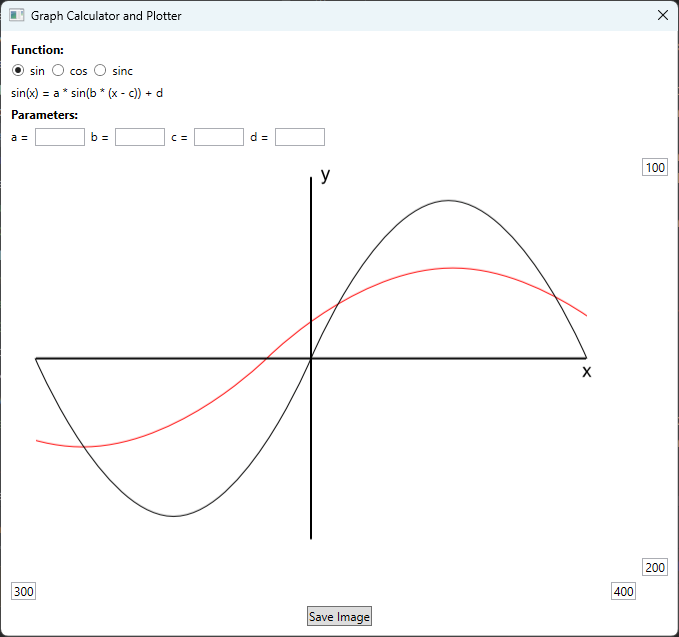
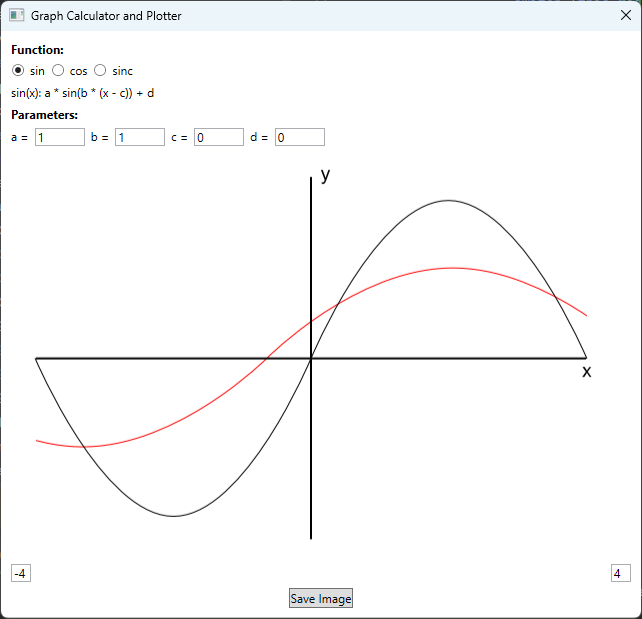
Removed MinY and MaxY

diff --git a/SimpleGraphCalculatorAndPlotter/MainWindow.xaml b/SimpleGraphCalculatorAndPlotter/MainWindow.xaml
@@ -81,8 +81,6 @@
                 <ColumnDefinition Width="Auto" />
                 <ColumnDefinition Width="*" />
                 <ColumnDefinition Width="Auto" />
-                <ColumnDefinition Width="6" />
-                <ColumnDefinition Width="Auto" />
             </Grid.ColumnDefinitions>
             <Grid.RowDefinitions>
                 <RowDefinition Height="Auto" />
@@ -98,8 +96,6 @@
                    Width="600"
                    Height="400" 
                    Source="/Analysis/Plot.png" />
-            <TextBox Grid.Row="0" Grid.Column="4" Width="20" Text="{Binding Model.MinY}" />
-            <TextBox Grid.Row="2" Grid.Column="4" Width="20" Text="{Binding Model.MaxY}" />
             <TextBox Grid.Row="4" Grid.Column="0" Width="20" Text="{Binding Model.MinX}" />
             <TextBox Grid.Row="4" Grid.Column="2" Width="20" Text="{Binding Model.MaxX}" />
         </Grid>

diff --git a/SimpleGraphCalculatorAndPlotterTests/SGCPModelTests.cs b/SimpleGraphCalculatorAndPlotterTests/SGCPModelTests.cs
@@ -20,8 +20,6 @@ namespace SimpleGraphCalculatorAndPlotterTests
                 It.IsAny<double>(),
                 It.IsAny<double>(),
                 It.IsAny<double>(),
-                It.IsAny<double>(),
-                It.IsAny<double>(),
                 It.IsAny<double>())).Returns(coordinates);
 
             var rendererMock = new Mock<ISGCPRenderer>();
@@ -48,23 +46,21 @@ namespace SimpleGraphCalculatorAndPlotterTests
                 It.IsAny<double>(),
                 It.IsAny<double>(),
                 It.IsAny<double>(),
-                It.IsAny<double>(),
-                It.IsAny<double>(),
                 It.IsAny<double>()), Times.Exactly(9));
             rendererMock.Verify(mock => mock.Render(coordinates), Times.Exactly(9));
             Assert.That(sut.Image == bitmapImage);
         }
 
         [Test]
-        [TestCase(FunctionType.Sin, 1, 2, 3, 4, 5, 6, 7, 8)]
-        [TestCase(FunctionType.Cos, -1, -2, -3, -4, -5, -6, -7, -8)]
-        [TestCase(FunctionType.Sinc, 0, 0, 0, 0, 0, 0, 0, 0)]
-        public void SaveImageCallsPlotterAndExportWithParameters(FunctionType functionType, double a, double b, double c, double d, double minX, double maxX, double minY, double maxY)
+        [TestCase(FunctionType.Sin, 1, 2, 3, 4, 5, 6)]
+        [TestCase(FunctionType.Cos, -1, -2, -3, -4, -5, -6)]
+        [TestCase(FunctionType.Sinc, 0, 0, 0, 0, 0, 0)]
+        public void SaveImageCallsPlotterAndExportWithParameters(FunctionType functionType, double a, double b, double c, double d, double minX, double maxX)
         {
             // Arrange
             var plotterMock = new Mock<ISGCPPlotter>();
             var coordinates = new[] { (1.0, 1.0), (2.0, 2.0), (3.0, 3.0) };
-            plotterMock.Setup(mock => mock.Plot(functionType, a, b, c, d, minX, maxX, minY, maxY)).Returns(coordinates);
+            plotterMock.Setup(mock => mock.Plot(functionType, a, b, c, d, minX, maxX)).Returns(coordinates);
             var exporterMock = new Mock<ISGCPExporter>();
             var testFileString = "TestFile";
 
@@ -79,8 +75,6 @@ namespace SimpleGraphCalculatorAndPlotterTests
                 D = d,
                 MinX = minX,
                 MaxX = maxX,
-                MinY = minY,
-                MaxY = maxY
             };
 
             plotterMock.Invocations.Clear();
@@ -89,7 +83,7 @@ namespace SimpleGraphCalculatorAndPlotterTests
             sut.SaveImage();
 
             // Assert
-            plotterMock.Verify(mock => mock.Plot(functionType, a, b, c, d, minX, maxX, minY, maxY), Times.Once());
+            plotterMock.Verify(mock => mock.Plot(functionType, a, b, c, d, minX, maxX), Times.Once());
             exporterMock.Verify(mock => mock.Export(testFileString, coordinates), Times.Once());
         }
     }

diff --git a/SimpleGraphCalculatorAndPlotter/Models/SGCPModel.cs b/SimpleGraphCalculatorAndPlotter/Models/SGCPModel.cs
@@ -18,8 +18,6 @@ namespace SimpleGraphCalculatorAndPlotter.Models
         private double d = 0;
         private double minX = -4;
         private double maxX = 4;
-        private double minY = -1;
-        private double maxY = 1;
         private ISGCPRenderer renderer;
         private FunctionType functionType;
 
@@ -128,45 +126,19 @@ namespace SimpleGraphCalculatorAndPlotter.Models
         }
 
         /// <inheritdoc />
-        public double MinY
-        {
-            get => this.minY;
-            set
-            {
-                if (this.SetField(ref this.minY, value))
-                {
-                    this.UpdateImage();
-                }
-            }
-        }
-
-        /// <inheritdoc />
-        public double MaxY
-        {
-            get => this.maxY;
-            set
-            {
-                if (this.SetField(ref this.maxY, value))
-                {
-                    this.UpdateImage();
-                }
-            }
-        }
-
-        /// <inheritdoc />
         public BitmapImage Image { get; set; }
 
         /// <inheritdoc />
         public void SaveImage()
         {
-            var coordinates = this.plotter.Plot(this.FunctionType, this.A, this.B, this.C, this.D, this.MinX, this.MaxX, this.MinY, this.MaxY);
+            var coordinates = this.plotter.Plot(this.FunctionType, this.A, this.B, this.C, this.D, this.MinX, this.MaxX);
             var fileName = this.getFileName();
             this.exporter.Export(fileName, coordinates);
         }
 
         private void UpdateImage()
         {
-            var coordinates = this.plotter.Plot(this.FunctionType, this.A, this.B, this.C, this.D, this.MinX, this.MaxX, this.MinY, this.MaxY);
+            var coordinates = this.plotter.Plot(this.FunctionType, this.A, this.B, this.C, this.D, this.MinX, this.MaxX);
             var image = this.renderer.Render(coordinates);
             this.Image = image;
         }

diff --git a/SimpleGraphCalculatorAndPlotter/Models/SGCPPlotter.cs b/SimpleGraphCalculatorAndPlotter/Models/SGCPPlotter.cs
@@ -1,10 +1,33 @@
-namespace SimpleGraphCalculatorAndPlotter.Models
+using System;
+using System.Collections.Generic;
+
+namespace SimpleGraphCalculatorAndPlotter.Models
 {
     public class SGCPPlotter : ISGCPPlotter
     {
-        public (double X, double Y)[] Plot(FunctionType functionType, double a, double b, double c, double d, double minX, double maxX, double minY, double maxY)
+        private int resolution = 100;
+        
+        public (double X, double Y)[] Plot(FunctionType functionType, double a, double b, double c, double d, double minX, double maxX)
         {
-            return null;
+            var result = new List<(double X, double Y)>();
+            //var step = maxX
+            switch (functionType)
+            {
+                case FunctionType.Sin:
+                    // for (int i = 0; i < UPPER; i++)
+                    // {
+                    //     
+                    // }
+                    break;
+                case FunctionType.Cos:
+                    break;
+                case FunctionType.Sinc:
+                    break;
+                default:
+                    throw new ArgumentOutOfRangeException(nameof(functionType), functionType, null);
+            }
+            
+            return result.ToArray();
         }
     }
 }

diff --git a/SimpleGraphCalculatorAndPlotterTests/SGCPPlotterTests.cs b/SimpleGraphCalculatorAndPlotterTests/SGCPPlotterTests.cs
@@ -8,13 +8,13 @@ namespace SimpleGraphCalculatorAndPlotterTests
     {
         [Test]
         [TestCase(FunctionType.Sin, 1, 2, 3, 4, 5, 6, 7, 8)]
-        public void Plot(FunctionType functionType, double a, double b, double c, double d, double minX, double maxX, double minY, double maxY)
+        public void Plot(FunctionType functionType, double a, double b, double c, double d, double minX, double maxX)
         {
             // Arrange
             var sut = new SGCPPlotter();
 
             // Act
-            var coordinates = sut.Plot(functionType, a, b, c, d, minX, maxX, minY, maxY);
+            var coordinates = sut.Plot(functionType, a, b, c, d, minX, maxX);
 
             // Assert
         }

diff --git a/SimpleGraphCalculatorAndPlotter/Models/ISGCPPlotter.cs b/SimpleGraphCalculatorAndPlotter/Models/ISGCPPlotter.cs
@@ -16,9 +16,7 @@
         /// <param name="d">The parameter d.</param>
         /// <param name="minX">The minimum of the x-axis.</param>
         /// <param name="maxX">The maximum of the x-axis.</param>
-        /// <param name="minY">The minimum of the y-axis.</param>
-        /// <param name="maxY">The maximum of the y-axis.</param>
         /// <returns>The calculated coordinates.</returns>
-        (double X, double Y)[] Plot(FunctionType functionType, double a, double b, double c, double d, double minX, double maxX, double minY, double maxY);
+        (double X, double Y)[] Plot(FunctionType functionType, double a, double b, double c, double d, double minX, double maxX);
     }
 }

diff --git a/SimpleGraphCalculatorAndPlotter/Models/ISGCPModel.cs b/SimpleGraphCalculatorAndPlotter/Models/ISGCPModel.cs
@@ -45,16 +45,6 @@ namespace SimpleGraphCalculatorAndPlotter.Models
         double MaxX { get; set; }
 
         /// <summary>
-        /// Gets or sets the minimum of the y-axis.
-        /// </summary>
-        double MinY { get; set; }
-
-        /// <summary>
-        /// Gets or sets the maximum of the y-axis.
-        /// </summary>
-        double MaxY { get; set; }
-
-        /// <summary>
         /// Gets or sets the rendered image.
         /// </summary>
         BitmapImage Image { get; set; }

diff --git a/SimpleGraphCalculatorAndPlotter/Analysis/ReadMe.md b/SimpleGraphCalculatorAndPlotter/Analysis/ReadMe.md
@@ -24,8 +24,8 @@ When the user modifies the parameters a second visualization is shown in the sam
 It is drawn as a simple red line.
 - **_<span style="color:red">TODO</span>_**: color / style of default function and modified function
 
-The visualizations are plotted in a 2d coordinate system below the functions and parameters. The ranges for the x- and y-axis can be adjusted by the user
-using 4 text boxes places at the respective corners of the coordinate system.
+The visualizations are plotted in a 2d coordinate system below the functions and parameters. The range for the x-axis can be adjusted by the user
+using 2 text boxes placed at the respective corners of the coordinate system.
 
 When the application is closed the last parameters should be saved to the user settings and are reused with the next application start.
 - **_<span style="color:red">TODO</span>_**: default / start values
